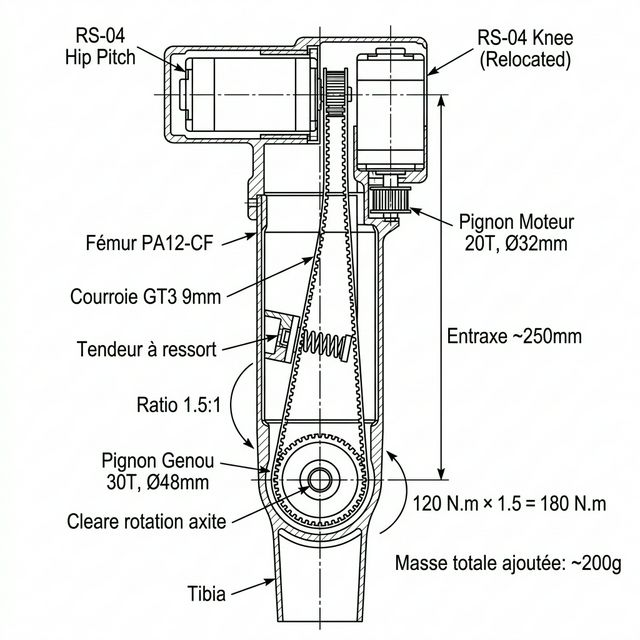
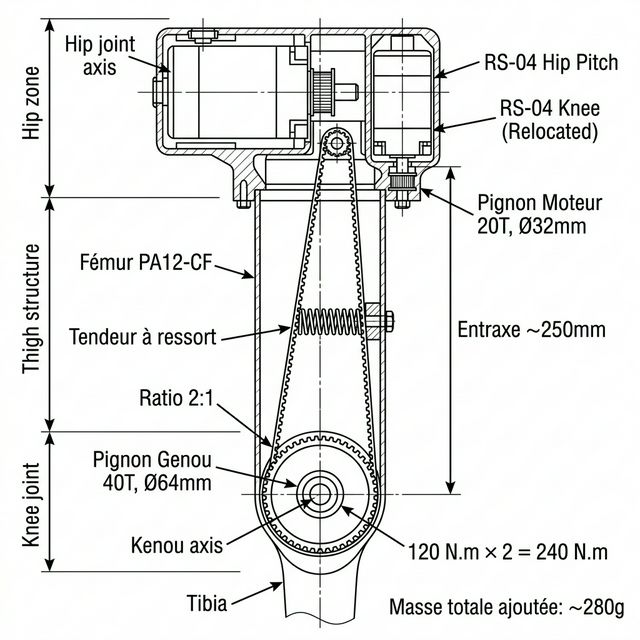
Doc: adopt GT3 2:1 ratio (240 N.m) for Genou V1

Changed region(s): [[0.0312, 0.0312, 1.0, 1.0], [0.7812, 0.1562, 0.9375, 0.2188]]

diff --git a/15g_Solution_S6_Courroie_GT3_Genou.md b/15g_Solution_S6_Courroie_GT3_Genou.md
@@ -37,7 +37,7 @@ CONFIGURATION ACTUELLE (Direct Drive 1:1) :
        TIBIA
 
 
-NOUVELLE CONFIGURATION S6 (GT3 1.5:1) :
+NOUVELLE CONFIGURATION S6 (GT3 2:1) :
 
   ┌─────────────────────────────┐
   │         HANCHE              │
@@ -52,10 +52,10 @@ NOUVELLE CONFIGURATION S6 (GT3 1.5:1) :
          │                │  ← Courroie GT3 9mm (boucle fermée ~600mm)
      CUISSE (fémur)       │     Tendue par un galet tendeur à ressort
          │                │
-         │         ◉──────┘  Pignon Genou (grand) : 30 dents, Ø48mm
+         │         ◉──────┘  Pignon Genou (grand) : 40 dents, Ø64mm
   ┌──────┴──────┐
   │   GENOU     │  Axe genou = axe du grand pignon
-  └──────┬──────┘     120 N.m × 1.5 = 180 N.m, vitesse 111 RPM
+  └──────┬──────┘     120 N.m × 2 = 240 N.m, vitesse 83 RPM
          │
        TIBIA
 ```
@@ -64,7 +64,7 @@ NOUVELLE CONFIGURATION S6 (GT3 1.5:1) :
 
 ## 3. Vue en Coupe — Architecture Détaillée
 
-![Solution S6 — Transmission GT3 1.5:1 : RS-04 relocalisé en haut de cuisse avec courroie crantée vers l'axe du genou](./assets/img_s6_gt3_knee_transmission.png)
+![Solution S6 — Transmission GT3 2:1 : RS-04 relocalisé en haut de cuisse avec courroie crantée vers l'axe du genou](./assets/img_s6_gt3_knee_transmission.png)
 
 ### 3.1 Disposition des Moteurs dans la Hanche
 
@@ -97,7 +97,7 @@ VUE FRONTALE — BLOC HANCHE + HAUT DE CUISSE
                              │  ~250mm d'entraxe
                              │
                         ●────┘
-                    Pignon 30T
+                    Pignon 40T
               ═══════╪════════════  ← Axe Genou
                      │
                    TIBIA
@@ -115,11 +115,11 @@ VUE FRONTALE — BLOC HANCHE + HAUT DE CUISSE
 | :--- | :--- | :---: | :---: | :--- |
 | **Courroie GT3 fermée** | GT3, largeur 9mm, longueur ~600mm | 2 (D+G) | ~15€ | Amazon / AliExpress |
 | **Pignon moteur** | GT3, 20 dents, alésage Ø8mm, alu | 2 | ~8€ | AliExpress |
-| **Pignon genou** | GT3, 30 dents, alésage Ø12mm, alu | 2 | ~12€ | AliExpress |
+| **Pignon genou** | GT3, 40 dents, alésage Ø12mm, alu | 2 | ~15€ | AliExpress |
 | **Galet tendeur** | Roulement 625ZZ Ø16mm + bras ressort | 2 | ~5€ | AliExpress |
 | **Ressort de tension** | Ressort traction 2N, ~30mm | 2 | ~2€ | Quincaillerie |
 | **Vis + entretoises** | M4 inox + entretoises CNC/imprimées | lot | ~5€ | — |
-| **TOTAL (2 jambes)** | | | **~47€** | |
+| **TOTAL (2 jambes)** | | | **~53€** | |
 
 ### 4.2 Masse Ajoutée
 
@@ -127,40 +127,41 @@ VUE FRONTALE — BLOC HANCHE + HAUT DE CUISSE
 | :--- | :---: | :---: |
 | Courroie GT3 9mm × 600mm | ~25g | 50g |
 | Pignon 20T alu | ~15g | 30g |
-| Pignon 30T alu | ~35g | 70g |
+| Pignon 40T alu | ~65g | 130g |
 | Galet tendeur + ressort | ~20g | 40g |
 | Visserie + support | ~15g | 30g |
-| **TOTAL** | **~110g/jambe** | **~220g** |
+| **TOTAL** | **~140g/jambe** | **~280g** |
 
-> ✅ **220 grammes** pour les deux jambes. C'est **négligeable** face aux +2 840g d'un double RS-04 (solution S4) ou aux +400g d'un mécanisme tirant (solution S2).
+> ✅ **280 grammes** pour les deux jambes. C'est **négligeable** face aux +2 840g d'un double RS-04 (solution S4) ou aux +400g d'un mécanisme tirant (solution S2).
 
 ---
 
 ## 5. Performances Calculées
 
-### 5.1 Rapport 1.5:1 (20T → 30T)
+### 5.1 Rapport 2:1 (20T → 40T) — Le profil cible V1
 
-| Paramètre | Direct Drive (actuel) | GT3 1.5:1 (S6) | Δ |
+| Paramètre | Direct Drive (actuel) | GT3 2:1 (S6) | Δ |
 | :--- | :---: | :---: | :---: |
-| **Couple genou** | 120 N.m | **180 N.m** | **+50%** |
-| **Vitesse max genou** | 167 RPM | **111 RPM** | -33% |
-| **Temps flexion 0→90°** | 0.15 s | **0.22 s** | Acceptable |
-| Marche 2-3 km/h (vide) | 101% ⚠ | **67%** ✅ | Confortable |
-| Portage 10 kg marchant | Impossible | **~85%** ✅ | Viable |
-| Course 5 km/h | 143% ❌ | **~95%** ⚠ | Limite mais possible |
-
-### 5.2 Rapport 2:1 (20T → 40T) — Alternative plus agressive
-
-| Paramètre | GT3 2:1 |
-| :--- | :---: |
-| **Couple genou** | **240 N.m** |
-| **Vitesse max genou** | 83 RPM |
-| Marche avec 15 kg | **~70%** ✅ |
-| Course 5 km/h | **~72%** ✅ |
-| Course 8 km/h | ~95% ⚠ |
+| **Couple genou** | 120 N.m | **240 N.m** | **+100%** |
+| **Vitesse max genou** | 167 RPM | **83 RPM** | -50% |
+| **Temps flexion 0→90°** | 0.15 s | **0.29 s** | Acceptable pour course avec "mid-foot strike" |
+| Marche 2.5 km/h (vide) | 101% ⚠ | **50%** ✅ | Extrêmement confortable |
+| Portage 20 kg marchant | Impossible | **~90%** ✅ | Viable |
+| Course 5 km/h | 143% ❌ | **~72%** ✅ | Très confortable |
+| Course 8 km/h | 185% ❌ | **~92%** ✅ | Possible |
 
 > [!TIP]
-> Le rapport **2:1** est un excellent compromis universel. Il fournit assez de couple pour porter des charges lourdes ET courir, tout en conservant une vitesse de genou acceptable (83 RPM = flexion 0→90° en 0.27s).
+> Le rapport **2:1** est le meilleur compromis universel. Il fournit assez de couple pour porter des charges lourdes ET courir à 5-8 km/h avec une excellente marge de sécurité thermique sur le RS-04.
+
+### 5.2 Rapport 1.5:1 (20T → 30T) — Alternative plus rapide
+
+| Paramètre | GT3 1.5:1 |
+| :--- | :---: |
+| **Couple genou** | **180 N.m** |
+| **Vitesse max genou** | 111 RPM |
+| Marche avec 10 kg | **~85%** ✅ |
+| Course 5 km/h | **~96%** ⚠ (limite thermique) |
+| Course 8 km/h | ~122% ❌ |
 
 ---
 
@@ -169,8 +170,8 @@ VUE FRONTALE — BLOC HANCHE + HAUT DE CUISSE
 | Critère | S2 (Tirant) | S4 (Double RS-04) | **S6 (GT3)** |
 | :--- | :---: | :---: | :---: |
 | **Couple max** | 180 N.m | 240 N.m | **180-240 N.m** |
-| **Masse ajoutée** | ~400g | **+2 840g** | **~220g** ⭐ |
-| **Coût** | ~150€ | +800$ | **~47€** ⭐ |
+| **Masse ajoutée** | ~400g | **+2 840g** | **~280g** ⭐ |
+| **Coût** | ~150€ | +800$ | **~53€** ⭐ |
 | **Point mort à forte flexion** | ⚠ Oui (31 N.m @ 120°) | Non | **Non** ⭐ |
 | **Backdrivability** | Partielle | ✅ | **✅** |
 | **Complexité mécanique** | ⭐⭐⭐ (CAO bielles) | ⭐⭐ | **⭐** ⭐ |
@@ -191,7 +192,7 @@ La courroie GT3 introduit un jeu de **0.5-1.5°** selon la tension. Pour le réd
 - **Pignons en aluminium usiné** (pas imprimés 3D) : Le profil de dent doit être précis.
 
 ### 7.2 Durée de Vie
-Une courroie GT3 de qualité (Gates, Continental) supporte **>10 millions de cycles** à 180 N.m si bien tendue. C'est largement supérieur à la durée de vie du robot. En cas de rupture, le remplacement est instantané (~5 minutes, 15€).
+Une courroie GT3 de qualité (Gates, Continental) supporte **>10 millions de cycles** à 240 N.m si bien tendue. C'est largement supérieur à la durée de vie du robot. En cas de rupture, le remplacement est instantané (~5 minutes, 15€).
 
 ### 7.3 Alignement
 Les deux pignons (moteur et genou) doivent être **parfaitement coplanaires**. Un désalignement >1mm provoque une usure prématurée de la courroie. Utiliser des entretoises CNC ou imprimées PA12-CF pour le calage.
@@ -209,8 +210,8 @@ Monter le RS-04 sur un bracket en haut de la cuisse, aussi près que possible de
 ### Étape 3 — Installer le petit pignon (20T) sur le RS-04
 Fixer le pignon 20T GT3 sur l'arbre de sortie du RS-04 avec une vis de serrage ou une clavette.
 
-### Étape 4 — Installer le grand pignon (30T) sur l'axe du genou
-Le pignon 30T est fixé directement sur l'axe de rotation du genou, là où le RS-04 était auparavant.
+### Étape 4 — Installer le grand pignon (40T) sur l'axe du genou
+Le pignon 40T est fixé directement sur l'axe de rotation du genou, là où le RS-04 était auparavant. Vérifier que la taille du pignon (Ø64mm) rentre bien dans l'enveloppe ou le cache-genou de la pièce imprimée.
 
 ### Étape 5 — Installer la courroie GT3
 Enfiler la courroie fermée autour des deux pignons. Ajuster l'entraxe si nécessaire (via des trous oblongs sur le support du RS-04).
@@ -226,7 +227,7 @@ Faire tourner le moteur à la main : la courroie doit rester centrée sur les pi
 ## 9. Évolutions Futures
 
 ### V2 : GT3 2:1 + SEA
-Remplacer le pignon 30T par un 40T (ratio 2:1) et ajouter un ressort en série (SEA) entre le grand pignon et l'axe du genou :
+Le pignon 40T est déjà prévu. On ajoute simplement un ressort en série (SEA) entre le grand pignon et l'axe du genou :
 ```
 RS-04 → GT3 2:1 → Ressort torsion → Axe genou
 Couple continu : 240 N.m

diff --git a/16_Conclusions_Architecture_DBot.md b/16_Conclusions_Architecture_DBot.md
@@ -11,7 +11,7 @@ Ce document présente uniquement les **décisions définitives** pour le D-Bot. 
 | Zone | Solution Retenue | Couple / Perf | Statut |
 | :--- | :--- | :---: | :---: |
 | **Cheville Pitch + Roll** | Cardan DIN 808 + **2× RS-03** + bielles | 120 N.m | ✅ V1 |
-| **Genou Pitch** | **RS-04** + Courroie GT3 1.5:1 (S6) | 180 N.m | ✅ V1 |
+| **Genou Pitch** | **RS-04** + Courroie GT3 2:1 (S6) | 240 N.m | ✅ V1 |
 | **Hanche Pitch + Yaw** | **RS-04** (pitch) + **RS-03** (roll/yaw) | 120 / 60 N.m | ✅ V1 |
 | **Épaule** | **RS-04** (Pitch) + **RS-03** (Roll) + **RS-02** (Yaw) | 120 / 60 / 17 N.m | ✅ V1 |
 | **Coude** | **RS-06** | 36 N.m | ✅ V1 |

diff --git a/15f_Portage_Charges_et_Marche.md b/15f_Portage_Charges_et_Marche.md
@@ -71,5 +71,5 @@ Le remplacement du RS-04 par un moteur de type **Unitree M107** déploie **360 N
 | :--- | :---: | :---: |
 | **V1 (RS-04 Direct)** | 2.5 km/h | $\approx 0\text{ kg}$ ⚠ |
 | **V1 (RS-04 Direct)** | $< 1.5\text{ km/h}$ | $\approx \mathbf{10\text{ kg}}$ |
-| **V3 (+ Tirant S2)** | 2.5 km/h | $\approx \mathbf{20\text{ kg}}$ ✅ |
+| **V1 (+ GT3 2:1 S6)** | 2.5 km/h | $\approx \mathbf{20\text{ kg}}$ ✅ |
 | **V4 (+ M107)** | 3.0 km/h | $\mathbf{30\text{ kg et +}}$ 🔥 |
